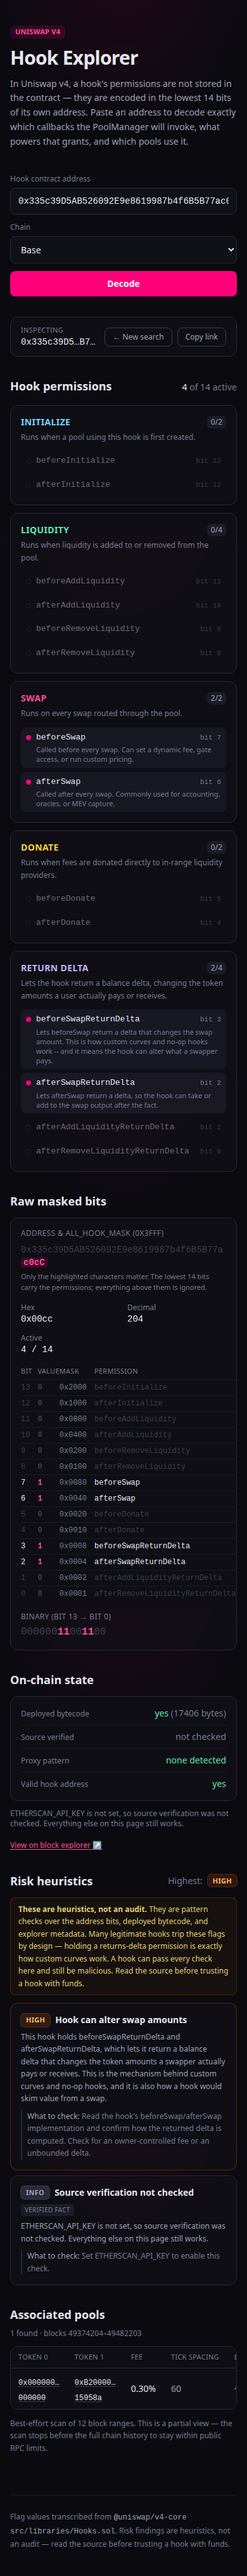
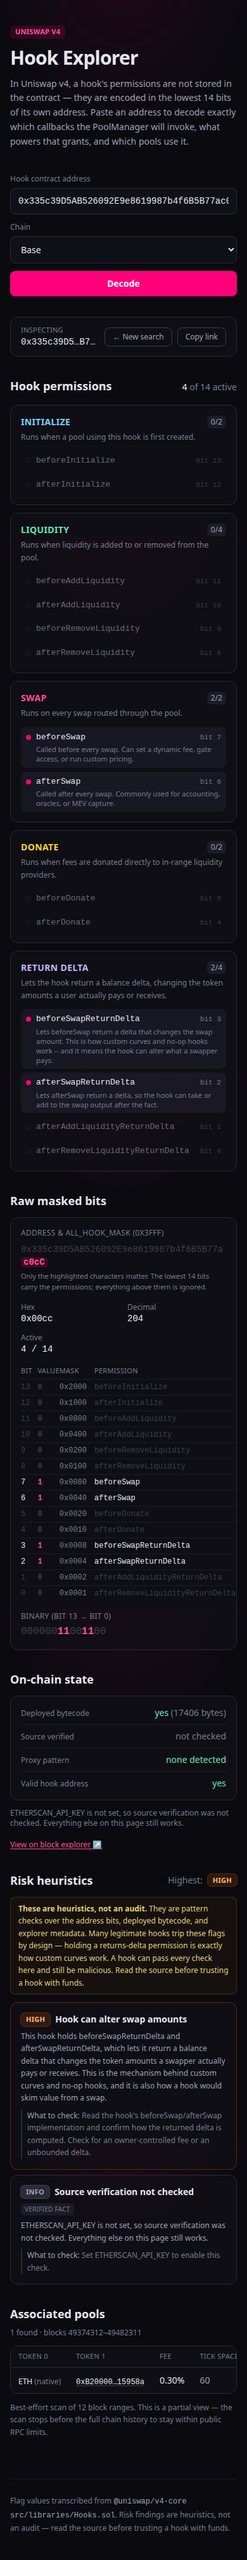
Harden the demo path and fix three visual defects found in screenshots
Visual, found by reading the captured screenshots rather than by a failing test:
- Permission group cards stretched to the tallest card in their row, leaving
  large empty voids under Initialize and Donate. Fixed with items-start.
- Pool table cells wrapped mid-address on narrow viewports. Fixed with nowrap,
  so the table scrolls in its container instead.
- Currency address(0) rendered as 0x000000...000000, which is accurate but
  meaningless. In v4 that is the chain's native asset, now labelled 'ETH (native)'.

Behavioural: 7 new Playwright tests pinning the guarantee that the pool scan
can never block the analysis. It is the one slow, range-limited, rate-limitable
part of the page, so it is covered for a 429, a request that never resolves, and
an empty result -- in every case the permissions, bit view, on-chain state and
risk report must still render. The mirror case is covered too: an /api/inspect
failure still leaves the decoded permissions, which need no network at all.

Plus the full demo flow end to end: paste, decode, risk flags, shareable URL
with a hook-specific title.

20 Playwright tests, 378 Vitest tests.

diff --git a/e2e/visual.spec.ts b/e2e/visual.spec.ts
@@ -171,6 +171,148 @@ test.describe("the bit table sizes to its content", () => {
   });
 });
 
+test.describe("the pool scan can never block the analysis", () => {
+  // The pool scan is the one part of the page that is slow, range-limited, and served
+  // by an RPC that rate-limits. It must degrade on its own without taking the decoded
+  // permissions or the risk report with it.
+
+  test("a 429 on /api/pools still leaves permissions, risk and on-chain state", async ({
+    page,
+  }) => {
+    await page.setViewportSize({ width: 1280, height: 900 });
+    await page.route("**/api/pools**", (route) =>
+      route.fulfill({
+        status: 429,
+        contentType: "application/json",
+        body: JSON.stringify({ ok: false, code: "rpc_error", error: "Too many requests." }),
+      }),
+    );
+
+    await page.goto(RESULT_URL);
+
+    // Everything that does not depend on the pool scan must still be here.
+    await expect(page.getByRole("heading", { name: "Hook permissions" })).toBeVisible();
+    await expect(page.getByText("4 of 14 active")).toBeVisible();
+    await expect(page.getByRole("heading", { name: "Raw masked bits" })).toBeVisible();
+    await expect(page.getByRole("heading", { name: "On-chain state" })).toBeVisible();
+    await expect(page.getByRole("heading", { name: "Risk heuristics" })).toBeVisible();
+    await expect(page.getByText("Hook can alter swap amounts")).toBeVisible();
+
+    // And the failure is reported in place, with a route to fixing it.
+    await expect(page.getByText("Too many requests.")).toBeVisible();
+    await expect(page.getByText("RPC_URL_BASE")).toBeVisible();
+
+    await page.screenshot({ path: "screenshots/state-pools-rate-limited.png", fullPage: true });
+  });
+
+  test("a hung pool scan does not delay the rest of the page", async ({ page }) => {
+    // Never resolves. The analysis must render anyway.
+    await page.route("**/api/pools**", () => {});
+
+    await page.goto(RESULT_URL);
+
+    await expect(page.getByRole("heading", { name: "Hook permissions" })).toBeVisible();
+    await expect(page.getByRole("heading", { name: "On-chain state" })).toBeVisible({
+      timeout: 30_000,
+    });
+    await expect(page.getByRole("heading", { name: "Risk heuristics" })).toBeVisible();
+    // The pool section is still spinning, and says why it is slow.
+    await expect(page.getByText("Scanning PoolManager Initialize events…")).toBeVisible();
+  });
+
+  test("an empty pool result is never presented as 'this hook has no pools'", async ({ page }) => {
+    await page.route("**/api/pools**", (route) =>
+      route.fulfill({
+        status: 200,
+        contentType: "application/json",
+        body: JSON.stringify({
+          ok: true,
+          address: HOOK,
+          chain: "base",
+          poolManager: "0x498581fF718922c3f8e6A244956aF099B2652b2b",
+          pools: [],
+          scannedFrom: "49372538",
+          scannedTo: "49480537",
+          chunksScanned: 12,
+          chunksFailed: 0,
+          truncated: true,
+          hitResultLimit: false,
+        }),
+      }),
+    );
+
+    await page.goto(RESULT_URL);
+
+    await expect(
+      page.getByText("No pools using this hook were found in the scanned range."),
+    ).toBeVisible();
+    await expect(page.getByText("Older pools may exist outside this window")).toBeVisible();
+  });
+
+  test("an /api/inspect failure still leaves the decoded permissions", async ({ page }) => {
+    // The mirror case: permissions come from the address alone and need no network.
+    await page.route("**/api/inspect**", (route) =>
+      route.fulfill({
+        status: 502,
+        contentType: "application/json",
+        body: JSON.stringify({ ok: false, code: "rpc_error", error: "RPC unreachable." }),
+      }),
+    );
+
+    await page.goto(RESULT_URL);
+
+    await expect(page.getByRole("heading", { name: "Hook permissions" })).toBeVisible();
+    await expect(page.getByText("4 of 14 active")).toBeVisible();
+    await expect(page.getByRole("heading", { name: "Raw masked bits" })).toBeVisible();
+    await expect(page.getByText("RPC unreachable.")).toBeVisible();
+    await expect(
+      page.getByText("decoded from the address itself, so they remain accurate"),
+    ).toBeVisible();
+  });
+});
+
+test.describe("the demo flow", () => {
+  test("paste address, decode, and land on a shareable URL", async ({ page }) => {
+    await page.setViewportSize({ width: 1280, height: 900 });
+    await page.goto("/");
+
+    // 1. Paste an address and pick a chain.
+    await page.getByLabel("Hook contract address").fill(HOOK);
+    await page.getByLabel("Chain").selectOption("base");
+    await page.getByRole("button", { name: "Decode" }).click();
+
+    // 2. The URL is the state, so the result is linkable.
+    await expect(page).toHaveURL(new RegExp(`address=${HOOK}&chain=base`));
+
+    // 3. Permissions decode immediately.
+    await expect(page.getByRole("heading", { name: "Hook permissions" })).toBeVisible();
+    await expect(page.getByText("4 of 14 active")).toBeVisible();
+
+    // 4. Risk flags arrive.
+    await expect(page.getByText("Hook can alter swap amounts")).toBeVisible({ timeout: 30_000 });
+    await expect(page.getByText("These are heuristics, not an audit.")).toBeVisible();
+
+    // 5. The title names the hook, so a shared link unfurls usefully.
+    await expect(page).toHaveTitle(/0x335c…c0cC on Base/);
+  });
+
+  test("an example button navigates to a decoded result", async ({ page }) => {
+    await page.goto("/");
+    await page.getByRole("button", { name: /Swap-delta hook/ }).click();
+
+    await expect(page).toHaveURL(new RegExp(`address=${HOOK}`));
+    await expect(page.getByRole("heading", { name: "Hook permissions" })).toBeVisible();
+  });
+
+  test("New search returns to the landing page", async ({ page }) => {
+    await page.goto(RESULT_URL);
+    await page.getByRole("link", { name: /New search/ }).click();
+
+    await expect(page).toHaveURL(/\/$/);
+    await expect(page.getByText("Or try one of these live hooks:")).toBeVisible();
+  });
+});
+
 test.describe("page states", () => {
   test("empty state lists the example hooks", async ({ page }) => {
     await page.setViewportSize({ width: 1280, height: 900 });

diff --git a/src/components/PoolsTable.tsx b/src/components/PoolsTable.tsx
@@ -2,7 +2,7 @@
 
 import type { PoolsSuccess } from "@/lib/api-types";
 import { formatFee } from "@/lib/pools";
-import { shortenAddress } from "@/lib/address";
+import { isZeroAddress, shortenAddress } from "@/lib/address";
 import type { ChainConfig } from "@/lib/chains";
 
 export type PoolsState =
@@ -12,12 +12,22 @@ export type PoolsState =
   | { status: "ready"; data: PoolsSuccess };
 
 function TokenLink({ chain, address }: { chain: ChainConfig; address: string }) {
+  // In v4, currency address(0) is the chain's native asset, not a token contract.
+  // Rendering it as `0x000000…000000` is accurate but tells the reader nothing.
+  if (isZeroAddress(address)) {
+    return (
+      <span className="text-xs whitespace-nowrap text-ink-100">
+        ETH <span className="text-ink-400">(native)</span>
+      </span>
+    );
+  }
+
   return (
     <a
       href={`${chain.explorerUrl}/address/${address}`}
       target="_blank"
       rel="noreferrer noopener"
-      className="font-mono text-xs text-ink-100 underline decoration-ink-600 underline-offset-2 hover:text-hook-soft"
+      className="font-mono text-xs whitespace-nowrap text-ink-100 underline decoration-ink-600 underline-offset-2 hover:text-hook-soft"
     >
       {shortenAddress(address, 8, 6)}
     </a>
@@ -121,7 +131,7 @@ export function PoolsTable({ state, chain }: { state: PoolsState; chain: ChainCo
                       <td className="px-3 py-2">
                         <TokenLink chain={chain} address={pool.currency1} />
                       </td>
-                      <td className="tnum px-3 py-2 text-sm">
+                      <td className="tnum px-3 py-2 text-sm whitespace-nowrap">
                         {pool.dynamicFee ? (
                           <span className="rounded bg-violet-500/15 px-1.5 py-0.5 text-xs text-violet-300">
                             dynamic
@@ -130,8 +140,10 @@ export function PoolsTable({ state, chain }: { state: PoolsState; chain: ChainCo
                           formatFee(pool.fee)
                         )}
                       </td>
-                      <td className="tnum px-3 py-2 text-sm text-ink-300">{pool.tickSpacing}</td>
-                      <td className="tnum px-3 py-2 font-mono text-xs text-ink-400">
+                      <td className="tnum px-3 py-2 text-sm whitespace-nowrap text-ink-300">
+                        {pool.tickSpacing}
+                      </td>
+                      <td className="tnum px-3 py-2 font-mono text-xs whitespace-nowrap text-ink-400">
                         {pool.blockNumber}
                       </td>
                     </tr>

diff --git a/src/components/PermissionGrid.tsx b/src/components/PermissionGrid.tsx
@@ -25,7 +25,9 @@ export function PermissionGrid({ decoded }: { decoded: DecodedHook }) {
         </p>
       </div>
 
-      <div className="grid gap-3 sm:grid-cols-2 xl:grid-cols-3">
+      {/* items-start: without it every card stretches to the tallest in its row, which
+          left large empty voids under the short groups (Initialize, Donate). */}
+      <div className="grid items-start gap-3 sm:grid-cols-2 xl:grid-cols-3">
         {decoded.groups.map((group) => (
           <div key={group.group} className="rounded-xl border border-ink-700 bg-ink-900/60 p-4">
             <div className="mb-1 flex items-center justify-between gap-2">
